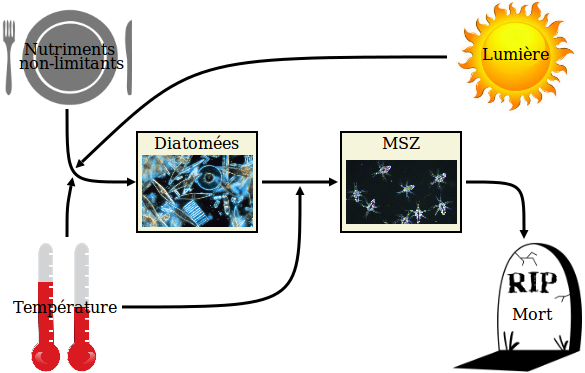
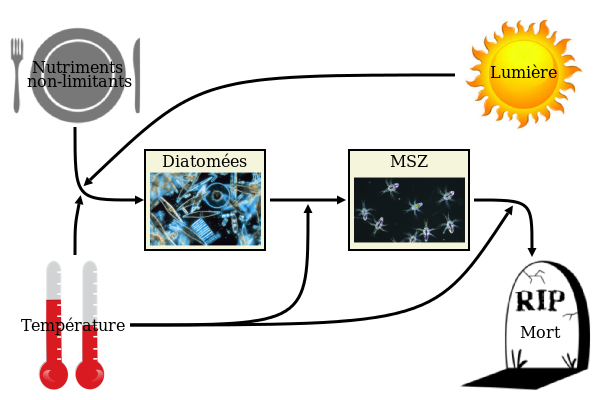
ajouter une ligne oublie dans le diagramme conceptuel

Changed region(s): [[0.0, 0.0, 1.0, 1.0]]

diff --git a/partie1/partie1.tex b/partie1/partie1.tex
@@ -2,5 +2,47 @@
 
 \subsection{Description du module}
 \par{
-
+In der vierten Aufgabenstellung geht es um die Vorhersage der Vermehrung von Phytoplankton in Abhängigkeit
+von 
 }
+
+\begin{equation}
+  {{d[DA]}\over{dt}} =
+  \mu_{DA} [DA] - graz_{MSZ} [MSZ]
+  \label{eq:partie1DiffEq1}
+\end{equation}
+\begin{equation}
+  {{d[MSZ]}\over{dt}} =
+  \left (
+    (1- eges_{MSZ}) graz_{MSZ} Y_{MSZ} - mm_{MSZ}
+  \right ) [MSZ]
+  \label{eq:partie1DiffEq2}
+\end{equation}
+
+\begin{equation}
+  graz_{MSZ} = g_{MSZ} \max(T) {{[DA]}\over{kg_{MSZ}+[DA]}}
+  \label{eq:partie1GrazMic}
+\end{equation}
+\begin{equation}
+  graz_{MSZ} = g_{MSZ} \max(T) {{[DA]-[DA_0]}\over{kg_{MSZ}+([DA]-[DA_0])}}
+  \label{eq:partie1GrazMicSeul}
+\end{equation}
+\begin{equation}
+  graz_{MSZ} = g_{MSZ} \max(T) {{[DA]^2}\over{kg_{MSZ}^2+[DA]^2}}
+  \label{eq:partie1GrazHol}
+\end{equation}
+
+\begin{figure}
+  \includegraphics[width=\textwidth]{partie1/diagrammeConceptuel.png}
+  \caption{Le modèle conceptuel du système étudié dans le quatrième cours.}
+  \label{fig:partie1DiagConcept}
+\end{figure}
+
+
+\subsection{Analyse mathèmatique}
+\subsubsection{États stationnaires}
+\subsubsection{Stabilité des états stationnaires}
+
+\subsection{Simulation de référence}
+
+\subsection{Simulation de test 1}
